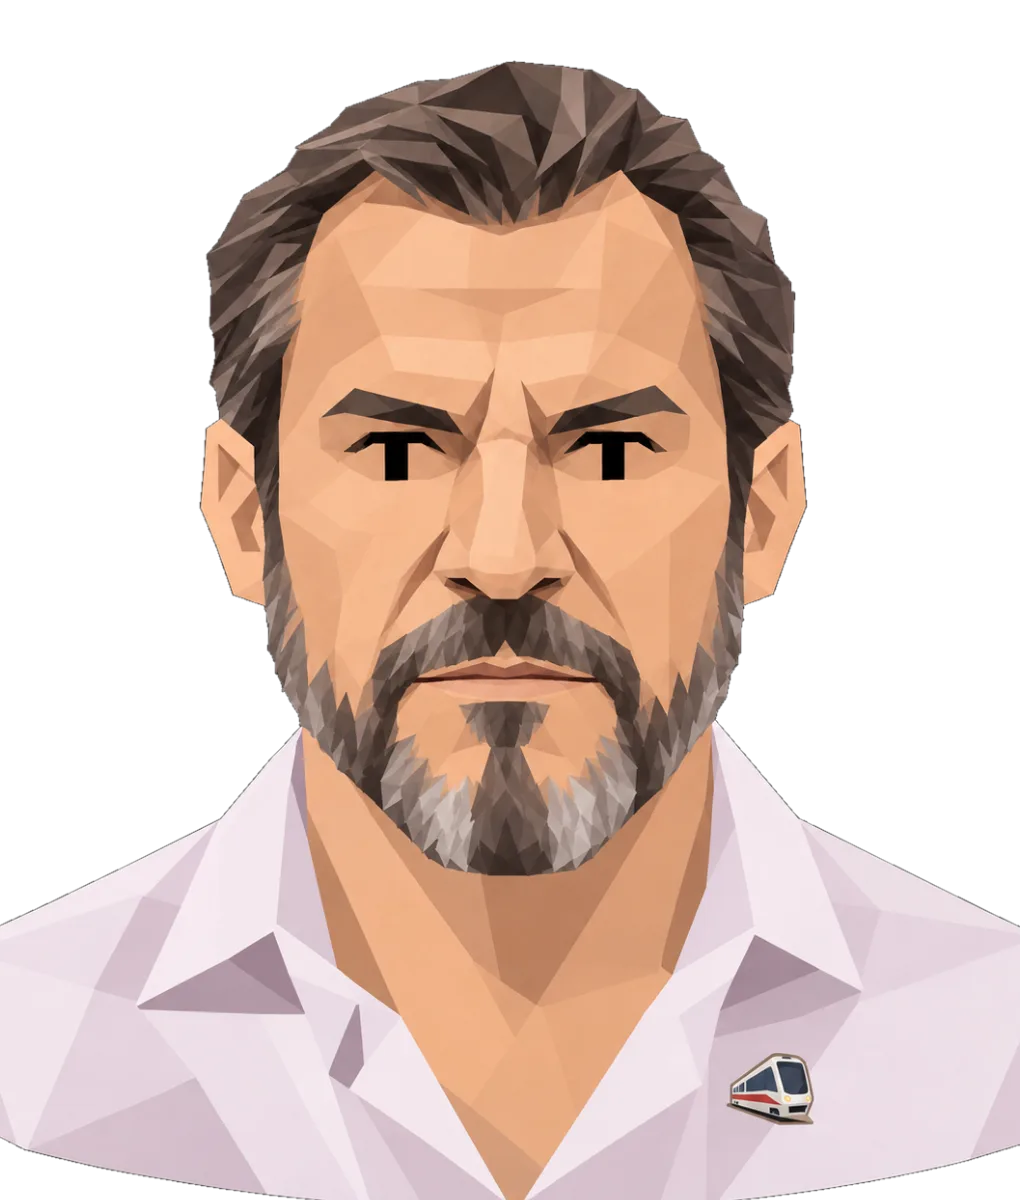
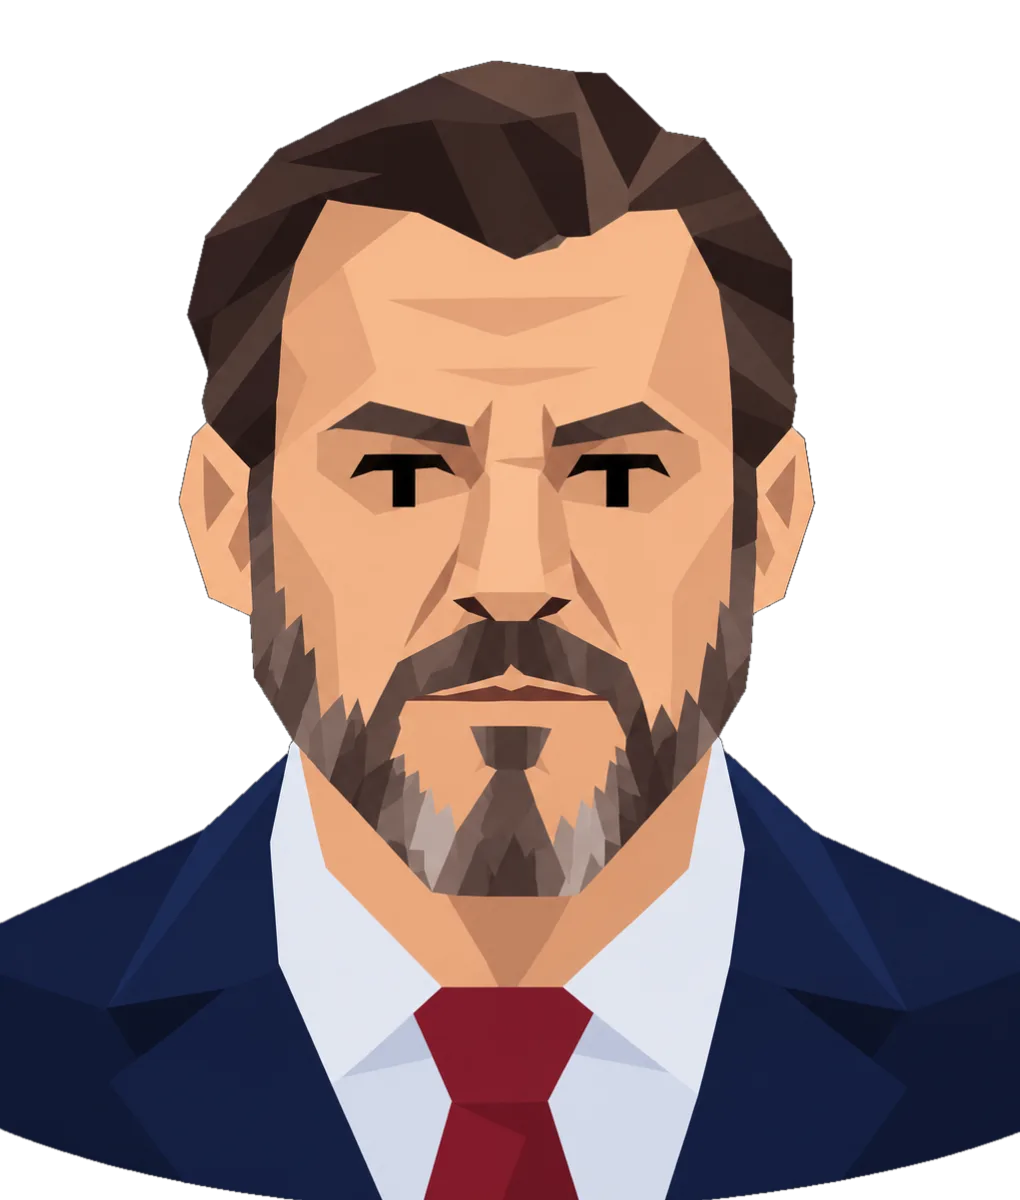
El resultado que se comparte ahora se VE, y dos caras nuevas
COMPARTIR. El texto contaba el resultado con palabras -cuanto durate, como te
llamaran, que te tumbo- y un resultado contado se lee y se olvida. Ahora
ademas se dibuja con las cuatro barras:

  No Me Consta · 47 meses en el cargo

  ██████░░░░ Medios
  ████░░░░░░ Gobierno
  ░░░░░░░░░░ Calle
  ████████░░ Caja B

  Me tumbo la calle.
  Los libros me llamaran El Escurridizo.

Se reconoce de un vistazo, invita a comparar con el del otro y por eso se
reenvia. Es lo que hizo el Wordle con su cuadricula, y aqui las barras ya
existian: solo habia que sacarlas por la puerta. Once lineas y 191 caracteres,
o sea que cabe en un tuit.

Las barras van al PRINCIPIO de la linea y la etiqueta detras, a proposito: en
WhatsApp y en Twitter la letra no es de ancho fijo, asi que con la etiqueta
delante cada barra empezaria en un sitio distinto y el dibujo se desmontaria.
Empezando todas en el margen quedan alineadas las pegue quien las pegue.

DOS RETRATOS NUEVOS: el Escudero y la Socia Incomoda, los dos por la tuberia
completa. El del Escudero traia fondo negro (fuera el 51%); el de la Socia ya
venia recortado. Los dos quedan al 60% y 66% de pixeles opacos, con su 5% de
aire y sin un solo pixel de halo.

El comprobador les saca dos peros, y los dos son los de siempre y estan
hablados: 1020 de ancho (nos quedamos ahi a proposito) y el torso que no llega
a las esquinas de abajo (tapan el 43% y el 54% del borde, que es lo que toca
arreglar en el dibujo, no en el encuadre).

diff --git a/src/utils/compartir.ts b/src/utils/compartir.ts
@@ -1,16 +1,51 @@
 import { epitetoDe } from '../data/epitetos'
+import { STAT_MAX } from '../data/cards'
+import type { Stats } from '../types'
 
 // Compartir el resultado de una partida. A propósito NO hay "puntuación": como
 // en Reigns, lo que se cuenta es cuánto aguantaste, cómo te recordarán y qué
 // te tumbó. Nada más.
+//
+// Y se DIBUJA con cómo llegaste. Un resultado contado solo con palabras se lee
+// y se olvida; el mismo resultado con las cuatro barras pintadas se reconoce de
+// un vistazo, invita a comparar con el del otro y es lo que hace que un mensaje
+// se reenvíe. Es lo que hizo el Wordle con su cuadrícula, y aquí las barras ya
+// existen: solo había que sacarlas por la puerta.
+//
+// Las barras van al PRINCIPIO de cada línea y la etiqueta detrás. Es a
+// propósito: en WhatsApp y en Twitter la letra no es de ancho fijo, así que con
+// la etiqueta delante cada barra empezaría en un sitio distinto y el dibujo se
+// desmontaría. Empezando todas en el margen, quedan alineadas escriba donde
+// escriba quien lo pegue.
+const LLENO = '█'
+const VACIO = '░'
+const ETIQUETAS: [keyof Stats, string][] = [
+  ['medios', 'Medios'],
+  ['gobierno', 'Gobierno'],
+  ['calle', 'Calle'],
+  ['caja', 'Caja B'],
+]
 
-export function textoResultado(meses: number, moralidad: number, causa: string): string {
+function barra(v: number): string {
+  const n = Math.max(0, Math.min(STAT_MAX, Math.round(v)))
+  return LLENO.repeat(n) + VACIO.repeat(STAT_MAX - n)
+}
+
+export function textoResultado(
+  meses: number,
+  moralidad: number,
+  causa: string,
+  stats?: Stats
+): string {
   const ep = epitetoDe(moralidad)
-  const lineas = [
-    `Duré ${meses} ${meses === 1 ? 'mes' : 'meses'} en el cargo.`,
-    `Los libros me llamarán ${ep.nombre}.`,
-  ]
+  const lineas = [`No Me Consta · ${meses} ${meses === 1 ? 'mes' : 'meses'} en el cargo`]
+  if (stats) {
+    lineas.push('')
+    for (const [k, nombre] of ETIQUETAS) lineas.push(`${barra(stats[k])} ${nombre}`)
+  }
+  lineas.push('')
   if (causa) lineas.push(causa)
+  lineas.push(`Los libros me llamarán ${ep.nombre}.`)
   lineas.push('', location.origin)
   return lineas.join('\n')
 }

diff --git a/src/data/coloresRetrato.ts b/src/data/coloresRetrato.ts
@@ -7,7 +7,7 @@
 export const COLOR_RETRATO: Record<string, string> = {
   'cruzado.webp': '#4b4316',
   'encuestador.webp': '#211f42',
-  'escudero.webp': '#242b3d',
+  'escudero.webp': '#261e42',
   'exiliadopesado.webp': '#1c2345',
   'expresidentecompetente.webp': '#201c45',
   'feminista.webp': '#402041',
@@ -25,6 +25,6 @@ export const COLOR_RETRATO: Record<string, string> = {
   'periodista.webp': '#242e3d',
   'presidentaregional.webp': '#4d141a',
   'primeradama.webp': '#24263d',
-  'sociaincomoda.webp': '#4d141b',
+  'sociaincomoda.webp': '#3a144d',
   'vicepresi.webp': '#24263d',
 }

diff --git a/src/data/acercamiento.ts b/src/data/acercamiento.ts
@@ -9,6 +9,7 @@
 // para que la cabeza se salga por los lados de la carta.
 export const ACERCAMIENTO: Record<string, number> = {
   'cruzado.webp': 1.15,
+  'escudero.webp': 1.15,
   'feminista.webp': 1.15,
   'guru.webp': 1.15,
   'ministrocorrupto.webp': 1.15,
@@ -16,7 +17,6 @@ export const ACERCAMIENTO: Record<string, number> = {
   'oposicionsuave.webp': 1.15,
   'presidentaregional.webp': 1.15,
   'sociaincomoda.webp': 1.15,
-  'jefecomunicacion.webp': 1.067,
-  'juez.webp': 1.023,
-  'hermano.webp': 1.01,
+  'jefecomunicacion.webp': 1.056,
+  'juez.webp': 1.012,
 }

diff --git a/src/App.tsx b/src/App.tsx
@@ -651,7 +651,7 @@ export default function App() {
                           onClick={async () => {
                             sfx.boton()
                             const res = await compartirResultado(
-                              textoResultado(turn - 1, moralidad, causaCompartir)
+                              textoResultado(turn - 1, moralidad, causaCompartir, stats)
                             )
                             if (res !== 'compartido') {
                               setCompartido(res)
